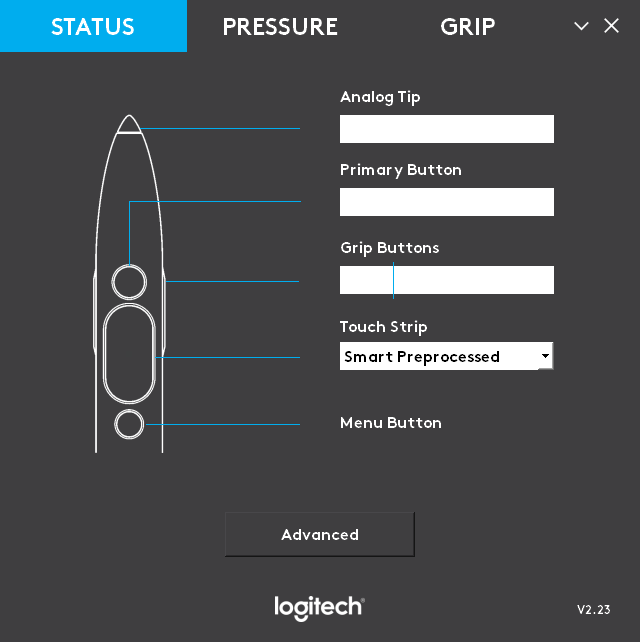
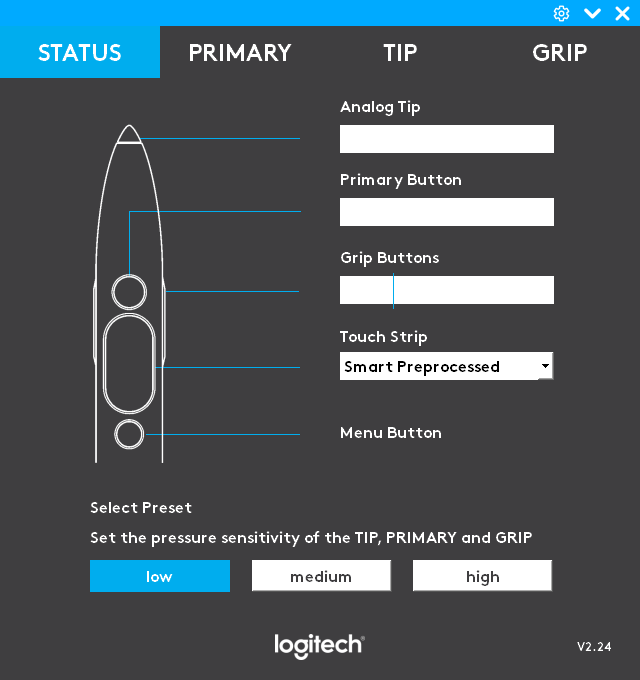
Update driver documentation

diff --git a/Documentation/Driver/Readme.md b/Documentation/Driver/Readme.md
@@ -37,13 +37,13 @@ The radio menu for the Touchstrip gives you control on how to interpret the touc
 
 ### Pressure Presets
 
-By selecting the PRESSURE tab you can play with response of the different analog inputs on the device.
+On the STATUS page you can select 3 presets that will change the analog response of the different inputs on VR Ink.
 
 ![Pressure Presets](./../Images/Driver/PressurePresets.png)
 
 We recommend that you start with the **low** preset; if you feel like it is too easy to activate certain inputs in a given application you can try to select **medium** or **high**.
 
-If you want to have finer control one each of the analog input you can *Customize* and the GRIP tab. There you will be able to manually adjust the curve and threshold as you see fit.
+If you want to have finer control one each of the analog input you can select the PRIMARY, TIP or GRIP tab. There you will be able to manually adjust the curves and thresholds as you see fit.
 
 ![Curve Settings](./../Images/Driver/CurveSettings.gif)
 
@@ -55,7 +55,7 @@ On the first launch you will asked about sharing anonymized analytics data:
 
 We would appreciate if you would opt in, since this will help Logitech understand which features of VR Ink are the most used, and it will be helpful in case of remote support.
 
-You can decide to opt in and out at any moment by going to the *Advanced* menu on the STATUS page.
+You can decide to opt in and out at any moment by clicking on the cogwheel at the top right of the application:
 
 ![Status Advanced](./../Images/Driver/StatusAdvanced.gif)
 
